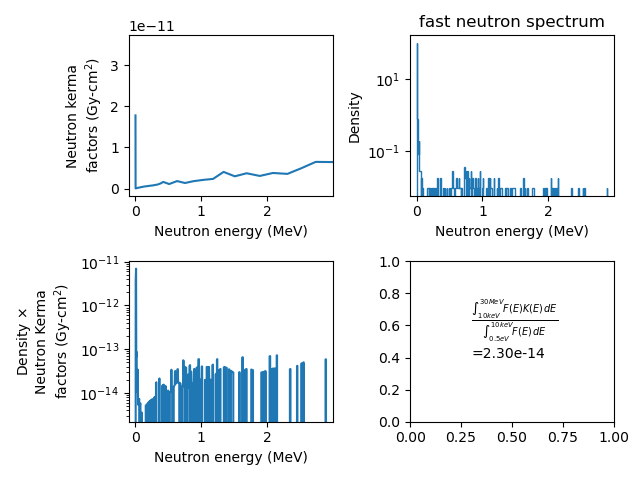
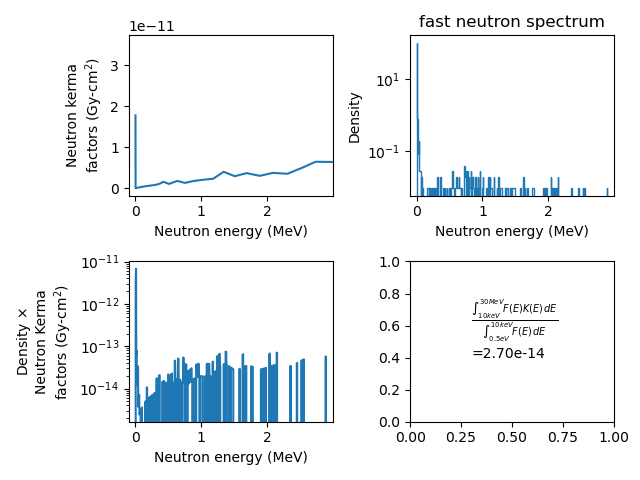
Found a bug. Scan KDE bandwidth.

diff --git a/dose-area-product/fast-neutron/dap_fast_neutron.py b/dose-area-product/fast-neutron/dap_fast_neutron.py
@@ -27,17 +27,16 @@ df_nspec = pd.read_csv('data/neutron_fromuserdefinedNeutronPL0degree_10cmFe33cmM
 df_nspec = df_nspec.iloc[:,[2]]
 df_nspec.columns = ['energy']
 
-# constant parameters
-kde_bandwidth = 1e-1
-xmax = max(list(df_nspec['energy'])) + kde_bandwidth
-
-def fast_neutron_ratio(use_kde=True, kde_bw=kde_bandwidth):
+def fast_neutron_ratio(use_kde=True, kde_bw=1e-1, hist_bs=1e-2):
     '''
     Calculate the fast neutron to epithermal neutron ratio, where the fast neutron flux is weighted by the kerma factor.
     Ref: p.18 equation in the paper https://core.ac.uk/download/pdf/82172536.pdf.
     '''
     f_nkerma = neutron_kerma_function()
-    f_nspec = neutron_spectrum_function(use_kde=use_kde, kde_bw=kde_bw)
+    if use_kde:
+        f_nspec = neutron_spectrum_function(use_kde=use_kde, kde_bw=kde_bw)
+    else:
+        f_nspec = neutron_spectrum_function(use_kde=use_kde, hist_bs=hist_bs)
     f_prod = lambda x: f_nkerma(x)*f_nspec(x)
 
     # upper limit of integration
@@ -47,7 +46,10 @@ def fast_neutron_ratio(use_kde=True, kde_bw=kde_bandwidth):
     num = integrate.quad(f_prod, 1e-2, min(xmax, 30))
     denum = integrate.quad(f_nspec, 5e-7, 1e-2)
     result = num[0]/denum[0]
-    print('Kerma factor weighted fast neutron to epithermal neutron ratio: {:.2e}'.format(num[0]/denum[0]))
+    if use_kde:
+        print('Kerma factor weighted fast neutron to epithermal neutron ratio for bandwidth {:.2e}: {:.2e}'.format(kde_bw, num[0]/denum[0]))
+    else:
+        print('Kerma factor weighted fast neutron to epithermal neutron ratio for bin size {:.2e}: {:.2e}'.format(hist_bs, num[0]/denum[0]))
 
     return result
 
@@ -61,37 +63,47 @@ def hist_spec(x, hist, bin_edges):
 def neutron_kerma_function():
     return interp1d(df_nkerma['energy'], df_nkerma['nkerma'], kind='cubic', fill_value='extrapolate')
 
-def neutron_spectrum_function(df=df_nspec, ax=None, use_kde=True, kde_bw=kde_bandwidth):
+def neutron_spectrum_function(df=df_nspec, ax=None, use_kde=True, kde_bw=1e-1, hist_bs=1e-2):
     if use_kde:
+        # The absence of the following line causes a deeply nasty bug.
+        # Since the plt axis persists, without the following line, I will always get the
+        # KDE function of the first invocation in a script.
+        plt.close()
+
         x, y = sns.distplot(df['energy'], rug=True, hist=False, kde_kws={'clip': (0.0, float('inf')), 'bw_method': kde_bw}, ax=ax).get_lines()[0].get_data()
         if ax:
             ax.clear()
         return interp1d(x, y, kind='cubic', fill_value='extrapolate')
     # histogram method
-    hist, bin_edges = np.histogram(df['energy'], bins=300, density=1)
+    xmax = max(list(df['energy']))
+    nbins = int(xmax*1.01/hist_bs)
+    hist, bin_edges = np.histogram(df['energy'], bins=nbins, density=1)
 
     return lambda x: hist_spec(x, hist, bin_edges)
 
 def plot_neutron_kerma(ax=None, logx=True, logy=True, xrange=None):
-    ax = df_nkerma.plot(x='energy', y='nkerma', ax=ax)
+    plt.cla()
+    ax1 = df_nkerma.plot(x='energy', y='nkerma', ax=ax)
     if logx:
-        ax.set_xscale('log')
+        ax1.set_xscale('log')
     if logy:
-        ax.set_yscale('log')
-    ax.set_xlabel('Neutron energy (MeV)')
-    ax.set_ylabel('Neutron kerma\n'+r'factors (Gy-cm$^2$)')
-    ax.get_legend().remove()
+        ax1.set_yscale('log')
+    ax1.set_xlabel('Neutron energy (MeV)')
+    ax1.set_ylabel('Neutron kerma\n'+r'factors (Gy-cm$^2$)')
+    ax1.get_legend().remove()
     # set x range
     if xrange:
-        ax.set_xlim(xrange)
+        ax1.set_xlim(xrange)
     # if this function is called standalone, plot it
     if not ax:
-        plt.show()
+        plt.tight_layout()
+        plt.savefig('plots/neutron_kerma.png')
         plt.close()
 
-def plot_neutron_spectrum(df=df_nspec, ax=None, xrange=None, use_kde=True, logy=False, kde_bw=kde_bandwidth):
+def plot_neutron_spectrum(df=df_nspec, ax=None, xrange=None, use_kde=True, logy=False, kde_bw=1e-1):
     # for samples with physical limits, here is the solution:
     # https://stackoverflow.com/questions/45911709/limit-the-range-of-x-in-seaborn-distplot-kde-estimation
+    plt.cla()
     if use_kde:
         ax1 = sns.distplot(df['energy'], rug=True, hist=False, kde_kws={'clip': (0.0, float('inf')), 'bw_method': kde_bw}, ax=ax)
     else:
@@ -108,7 +120,8 @@ def plot_neutron_spectrum(df=df_nspec, ax=None, xrange=None, use_kde=True, logy=
         ax1.set_yscale('log')
     # if this function is called standalone, plot it
     if not ax:
-        plt.show()
+        plt.tight_layout()
+        plt.savefig('plots/neutron_spec_{}kde.png'.format('' if use_kde else 'no_'))
         plt.close()
 
 def plot_weighted_kerma(use_kde=False, logy=True):
@@ -116,15 +129,24 @@ def plot_weighted_kerma(use_kde=False, logy=True):
     This function makes all informative plots.
     The neutron kerma function, the neutron spectrum, and the product of the two.
     '''
+
+    # calculate ratio before making plots
+    form_str = r'$\frac{\int_{10keV}^{30MeV} F(E)K(E) \,dE}{\int_{0.5eV}^{10keV} F(E) \,dE}$'
+    if use_kde:
+        ratio = fast_neutron_ratio(use_kde=use_kde, kde_bw=kde_bandwidth)
+    else:
+        ratio = fast_neutron_ratio(use_kde=use_kde, hist_bs=hist_binsize)
+    # construct function forms
+    f_nkerma = neutron_kerma_function()
+    f_nspec0 = neutron_spectrum_function(use_kde=use_kde)
+
     _, axs = plt.subplots(2, 2)
     plot_neutron_kerma(ax=axs[0,0], logx=False, logy=False, xrange=(-0.1,xmax))
     plot_neutron_spectrum(ax=axs[0,1], xrange=(-0.1,xmax), use_kde=use_kde, logy=True)
 
     # plot the product function
-    f_nkerma = neutron_kerma_function()
-    f_nspec = neutron_spectrum_function(use_kde=use_kde)
     x_prod = np.linspace(0, xmax, 1001)
-    y_prod = f_nkerma(x_prod)*np.array([f_nspec(xi) for xi in x_prod])
+    y_prod = f_nkerma(x_prod)*np.array([f_nspec0(xi) for xi in x_prod])
     axs[1,0].plot(x_prod, y_prod)
     axs[1,0].set_xlim((-0.1,xmax))
     axs[1,0].set_ylabel('Density '+r'$\times$'+'\nNeutron Kerma\n'+r'factors (Gy-cm$^2$)')
@@ -133,8 +155,6 @@ def plot_weighted_kerma(use_kde=False, logy=True):
     axs[1,0].set_xlabel('Neutron energy (MeV)')
 
     # Writing results to the last subplot
-    form_str = r'$\frac{\int_{10keV}^{30MeV} F(E)K(E) \,dE}{\int_{0.5eV}^{10keV} F(E) \,dE}$'
-    ratio = fast_neutron_ratio(use_kde=use_kde)
     axs[1,1].clear()
     axs[1,1].text(.3, .4, form_str+'\n={:.2e}'.format(ratio))
 
@@ -148,5 +168,13 @@ def plot_weighted_kerma(use_kde=False, logy=True):
     plt.close()
 
 if __name__ == "__main__":
+    # constant parameters
+    kde_bandwidth = 1e-1
+    hist_binsize = 1e-2
+    xmax = max(list(df_nspec['energy'])) + kde_bandwidth
+
     plot_weighted_kerma(use_kde=False)
     plot_weighted_kerma(use_kde=True)
+    plot_neutron_kerma(ax=None, logx=True, logy=True)
+    plot_neutron_spectrum(use_kde=True, logy=True)
+    plot_neutron_spectrum(use_kde=False, logy=True)

diff --git a/dose-area-product/fast-neutron/scan_histogram_binsize.py b/dose-area-product/fast-neutron/scan_histogram_binsize.py
@@ -1,0 +1,29 @@
+#!/usr/bin/env python
+
+from dap_fast_neutron import *
+import matplotlib.pyplot as plt
+import numpy as np
+import os
+
+if __name__ == '__main__':
+    binsizes = np.logspace(-4, 0, num=41)
+    # First several bin sizes lead to error. Remove them.
+    binsizes = binsizes[6:]
+    ratios = [fast_neutron_ratio(use_kde=False, hist_bs=bs) for bs in binsizes]
+
+    # decorate the output figure
+    plt.close()
+    plt.scatter(binsizes, ratios)
+    plt.xscale('log')
+    plt.yscale('log')
+    plt.xlabel('Bin size (MeV)')
+    plt.ylabel(r'Weighted ratio (Gy-cm$^2$)')
+    plt.title('Kerma factor-weighted fast to epithermal neutron flux ratio\nvs. neutron flux bin size')
+    plt.grid(True)
+    
+    # save plot
+    out_dir = 'plots'
+    if not os.path.exists(out_dir):
+        os.makedirs(out_dir)
+    out_fpn = os.path.join(out_dir, 'histogram_binsize_scan.png')
+    plt.savefig(out_fpn)

diff --git a/dose-area-product/fast-neutron/scan_kde_bandwidth.py b/dose-area-product/fast-neutron/scan_kde_bandwidth.py
@@ -5,10 +5,22 @@ import matplotlib.pyplot as plt
 import numpy as np
 
 if __name__ == '__main__':
-    bandwidths = np.logspace(-4, 0, num=10)
+    bandwidths = np.logspace(-4, 0, num=41)
     ratios = [fast_neutron_ratio(use_kde=True, kde_bw=bw) for bw in bandwidths]
+    
+    # decorate the output figure
     plt.close()
     plt.scatter(bandwidths, ratios)
     plt.xscale('log')
     plt.yscale('log')
-    plt.show()
+    plt.xlabel('KDE bandwidth (MeV)')
+    plt.ylabel(r'Weighted ratio (Gy-cm$^2$)')
+    plt.title('Kerma factor-weighted fast to epithermal neutron flux ratio\nvs. neutron flux KDE bandwidth')
+    plt.grid(True)
+    
+    # save plot
+    out_dir = 'plots'
+    if not os.path.exists(out_dir):
+        os.makedirs(out_dir)
+    out_fpn = os.path.join(out_dir, 'kde_bandwidth_scan.png')
+    plt.savefig(out_fpn)
